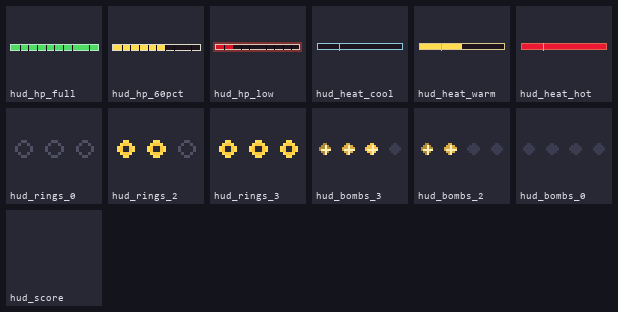
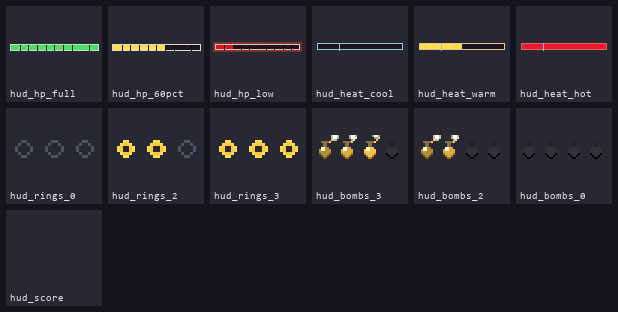
fix BLOQUE 58.39 - HUD bombas rediseño (cuerpo + mecha con chispa)

Changed region(s): [[0.6764, 0.4327, 0.8916, 0.5192], [0.4919, 0.4327, 0.6456, 0.5192], [0.8916, 0.4615, 0.9838, 0.5192]]

diff --git a/src/ui/hud.py b/src/ui/hud.py
@@ -221,7 +221,12 @@ class HUD:
         return y + ROW_H
 
     def _draw_bombs(self, target: pygame.Surface, player: Player, y: int, t: float) -> int:
-        """BLOQUE 58.19: bomb counter (3-4 bomb icons + numeric value)."""
+        """BLOQUE 58.19 + 58.39: bomb counter (3-4 bomb icons + numeric value).
+
+        BLOQUE 58.39: bombs are now drawn as actual bomb silhouettes
+        (round body + neck + cap + lit fuse), not just circles. Makes the
+        HUD read more like a real shmup inventory.
+        """
         x = HUD_MARGIN
         bombs = player.bombs
         max_bombs = player.bombs_max
@@ -237,18 +242,7 @@ class HUD:
         for i in range(max_bombs):
             bx = slots_x + i * (ICON_SIZE + 3)
             is_ready = i < bombs
-            if is_ready:
-                pulse = 0.7 + 0.3 * math.sin(t * 4.0 + i * 0.6)
-                color = (int(255 * pulse), int(200 * pulse), int(80 * pulse))
-            else:
-                color = (60, 60, 80)
-            pygame.draw.circle(target, color, (bx + ICON_SIZE // 2, icon_cy), 3)
-            if is_ready:
-                cx_b, cy_b = bx + ICON_SIZE // 2, icon_cy
-                pygame.draw.line(target, (255, 240, 180),
-                                  (cx_b - 2, cy_b), (cx_b + 2, cy_b), 1)
-                pygame.draw.line(target, (255, 240, 180),
-                                  (cx_b, cy_b - 2), (cx_b, cy_b + 2), 1)
+            self._draw_bomb_icon(target, bx, icon_cy, ready=is_ready, t=t, idx=i)
         # Count value to the right
         if self.font_value:
             value = self.font_value.render(
@@ -258,6 +252,57 @@ class HUD:
             value_y = y + (ROW_H - value.get_height()) // 2
             target.blit(value, (value_x, value_y))
         return y + ROW_H
+
+    def _draw_bomb_icon(self, target: pygame.Surface, x: int, y: int,
+                        ready: bool, t: float, idx: int) -> None:
+        """BLOQUE 58.39: draw a single bomb silhouette (round body + neck + fuse).
+
+        Ready bombs pulse warm yellow with a glowing fuse. Spent bombs are
+        a dim grey silhouette (no fuse spark).
+        """
+        if ready:
+            pulse = 0.7 + 0.3 * math.sin(t * 4.0 + idx * 0.6)
+            body_col = (int(255 * pulse), int(200 * pulse), int(80 * pulse))
+            cap_col = (140, 110, 60)
+            fuse_col = (255, 200, 100)
+            spark_col = (255, 255, 200)
+        else:
+            body_col = (50, 50, 60)
+            cap_col = (35, 35, 40)
+            fuse_col = (40, 40, 50)
+            spark_col = (40, 40, 50)
+        # Bomb body (sphere, 5px diameter)
+        body_cx = x + 3
+        body_cy = y + 1
+        # Bottom shadow
+        pygame.draw.circle(target, (max(0, body_col[0] - 60), max(0, body_col[1] - 60),
+                                     max(0, body_col[2] - 60)),
+                           (body_cx, body_cy + 1), 3)
+        # Main body
+        pygame.draw.circle(target, body_col, (body_cx, body_cy), 3)
+        # Highlight (top-left of sphere, gives 3D feel)
+        if ready:
+            pygame.draw.circle(target, (255, 255, 220), (body_cx - 1, body_cy - 1), 1)
+        # Neck (small rectangle on top)
+        pygame.draw.rect(target, cap_col, (body_cx - 1, body_cy - 4, 2, 2))
+        # Cap (top of neck)
+        pygame.draw.rect(target, cap_col, (body_cx - 2, body_cy - 5, 4, 1))
+        # Fuse (curves up-right from cap)
+        fuse_x = body_cx + 2
+        fuse_y = body_cy - 5
+        pygame.draw.line(target, fuse_col, (fuse_x, fuse_y),
+                         (fuse_x + 2, fuse_y - 2), 1)
+        # Fuse spark (only when ready, animated)
+        if ready:
+            spark_phase = (t * 8.0 + idx * 1.3) % 1.0
+            spark_x = int(fuse_x + 2 + math.cos(spark_phase * 6.28) * 1)
+            spark_y = int(fuse_y - 2 + math.sin(spark_phase * 6.28) * 1)
+            # Tiny spark glow
+            halo = pygame.Surface((6, 6), pygame.SRCALPHA)
+            halo_a = int(180 * (1.0 - spark_phase * 0.4))
+            pygame.draw.circle(halo, (*spark_col, halo_a), (3, 3), 2)
+            target.blit(halo, (spark_x - 3, spark_y - 3))
+            pygame.draw.circle(target, (255, 255, 255), (spark_x, spark_y), 1)
 
     def _draw_score(self, target: pygame.Surface, scoring: ScoringSystem) -> None:
         """Score number, right-aligned, no header."""
